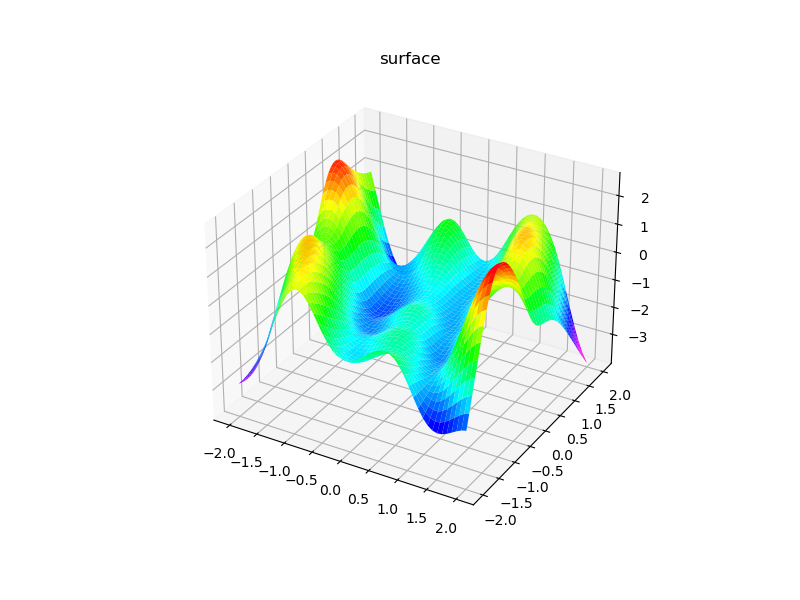
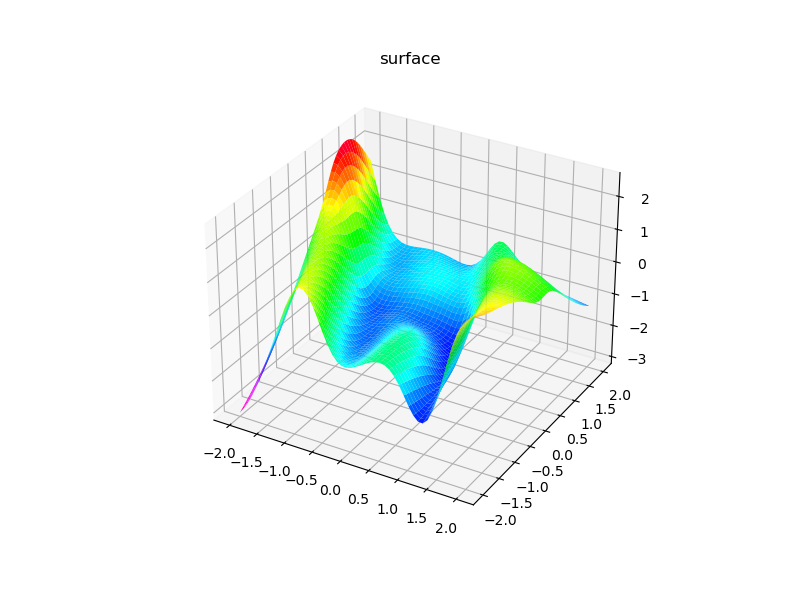
EXTREME

diff --git a/2_1/functions_21_MSG.py b/2_1/functions_21_MSG.py
@@ -52,31 +52,32 @@ class MLP:
         self.y_test = self.test_data.iloc[:, 2].to_numpy()
 
         self.n = self.X_train.shape[1]
-        self.W = np.random.normal(loc=0., scale=1. / self.N, size=(self.N, self.n))  # N x n
-        self.v = np.random.normal(loc=0., scale=1. / self.N, size=(self.N, 1))  # N x 1
-        self.b = np.random.normal(loc=0., scale=1. / self.N, size=(self.N, 1))  # N x 1
+        self.W = np.zeros((self.N, self.n))  # N x n
+        self.v = np.zeros((self.N, 1))  # N x 1
+        self.b = np.zeros((self.N, 1))  # N x 1
+        self.W_tmp = self.W  # N x n
+        self.b_tmp = self.b  # N x 1
         self.Loss_list = []
 
-    def fit(self, method='bfgs', maxiter=1000, disp=False, print_=True):
 
+    def extreme_learning(self, num_iter=100):
+        random_W = np.random.normal(0, 3, size=(self.N, self.n, num_iter))  # N x n
+        random_b = np.random.uniform(-3, 3, size=(self.N, 1, num_iter))  # N x 1
+
+        best_loss = np.inf
         t = time.time()
-        vec = self._to_vec()
+        for c in range(num_iter):
+            self.W_tmp = random_W[:, :, c].reshape(self.N, self.n)
+            self.b_tmp = random_b[:, :, c].reshape(self.N, 1)
+            v = self.opt_v()
 
-        opt = minimize(self._optimize, vec, method=method, options=
-        {'maxiter': maxiter, 'disp': disp})
-        self.minimize_obj = opt
-        self.W, self.v, self.b = self._to_array(opt.x)
-
-        if print_:
-            print(f'Time: {time.time() - t}')
-            print(f'Loss:{self.minimize_obj["fun"]}')
-
-    def extreme_learning(self, method='bfgs', maxiter=1000, disp=False):
-        random_W = np.random.normal(loc=0., scale=1. / self.N, size=(self.N, self.n))  # N x n
-        random_b = np.random.normal(loc=0., scale=1. / self.N, size=(self.N, 1))  # N x 1
-
-        pass
-
+            if self._optimize(v) < best_loss:
+                self.W = self.W_tmp
+                self.b = self.b_tmp
+                self.v = v
+                best_loss = self._optimize(v)
+        print(f'Total time for Extreme learning: {time.time() - t}')
+        print(f'Best loss: {best_loss}')
 
     def _compute_loss(self, W, v, b, dataset, loss_reg=False):
         sigma = self.sigma
@@ -93,6 +94,7 @@ class MLP:
             X = self.X_test
             y = self.y_test
 
+
         xx = W.dot(X.T) - b  # N x P Ogni colonna è l'output degli N neuroni per una specifica x (unità statistica)
         g_x = activation(xx, sigma)  # , sigma=self.sigma) # N x P
         f_x = g_x.T.dot(v)  # P x 1 - g_x.T = P x N @ N x 1
@@ -100,11 +102,18 @@ class MLP:
         # self.Loss_list.append(Loss)
 
         if loss_reg:
-            L2 = np.linalg.norm(np.concatenate((W, v, b), axis=None)) ** 2  # regularization
+            L2 = np.linalg.norm(v) ** 2  # regularization
             Loss_reg = Loss + (rho * L2)
             return Loss_reg
         else:
             return Loss
+
+    # TRUE EXTREME LEARNING
+
+    def opt_v(self):
+        xx = self.W_tmp.dot(self.X_train.T) - self.b_tmp #N x P
+        g_x = self.activation(xx, self.sigma) #N x P
+        return np.dot(np.linalg.pinv(g_x.T), self.y_train)
 
     def predict(self, X):
         xx = self.W.dot(
@@ -124,8 +133,9 @@ class MLP:
         assert vec.shape == (N * n + (2 * N),)
         return vec[:N * n].reshape(N, n), vec[N * n:-N].reshape(N, 1), vec[-N:].reshape(N, 1)
 
-    def _optimize(self, vec, dataset='train'):
-        W, v, b = self._to_array(vec)
+    def _optimize(self, v, dataset='train'):
+        W = self.W_tmp
+        b = self.b_tmp
         return self._compute_loss(W, v, b, dataset, loss_reg=True)
 
     def get_loss(self, loss_type):

diff --git a/2_1/run_21_MSG.py b/2_1/run_21_MSG.py
@@ -1,8 +1,9 @@
 from functions_21_MSG import *
+np.random.seed(1679838)
 df = pd.read_csv(r'..\OMML2020_Assignment_1_Dataset.csv')
-params = {'N': 15, 'rho': 1e-05, 'sigma': 0.9}
+params = {'N': 16, 'rho': 1e-05, 'sigma': 0.9}
 model = MLP(df=df, **params)
-model.fit()
+model.extreme_learning(num_iter=30000)
 loss = get_loss(model, loss_type='all')
 print('BEST PARAMS:','\n\nN:', model.N,
       '\nrho:', model.rho,

diff --git a/2_2/functions_22_MSG.py b/2_2/functions_22_MSG.py
@@ -108,7 +108,7 @@ class RBF:
         # self.Loss_list.append(Loss)
 
         if loss_reg:
-            L2 = np.linalg.norm(np.concatenate((C, v), axis=None)) ** 2  # regularization
+            L2 = np.linalg.norm(v) ** 2  # regularization
             Loss_reg = Loss + (rho * L2)
             return Loss_reg
         else:

diff --git a/1_1/functions_11_MSG.py b/1_1/functions_11_MSG.py
@@ -131,7 +131,7 @@ class MLP:
         return out
  
 params = {
-    'N_vals': list(range(2, 18, 1)),
+    'N_vals': list(range(10, 40, 1)),
     'sigma_vals': np.arange(.8, 1.4, .1),
     'rho_vals': [1e-5, 1e-3, 1e-4]}
 
